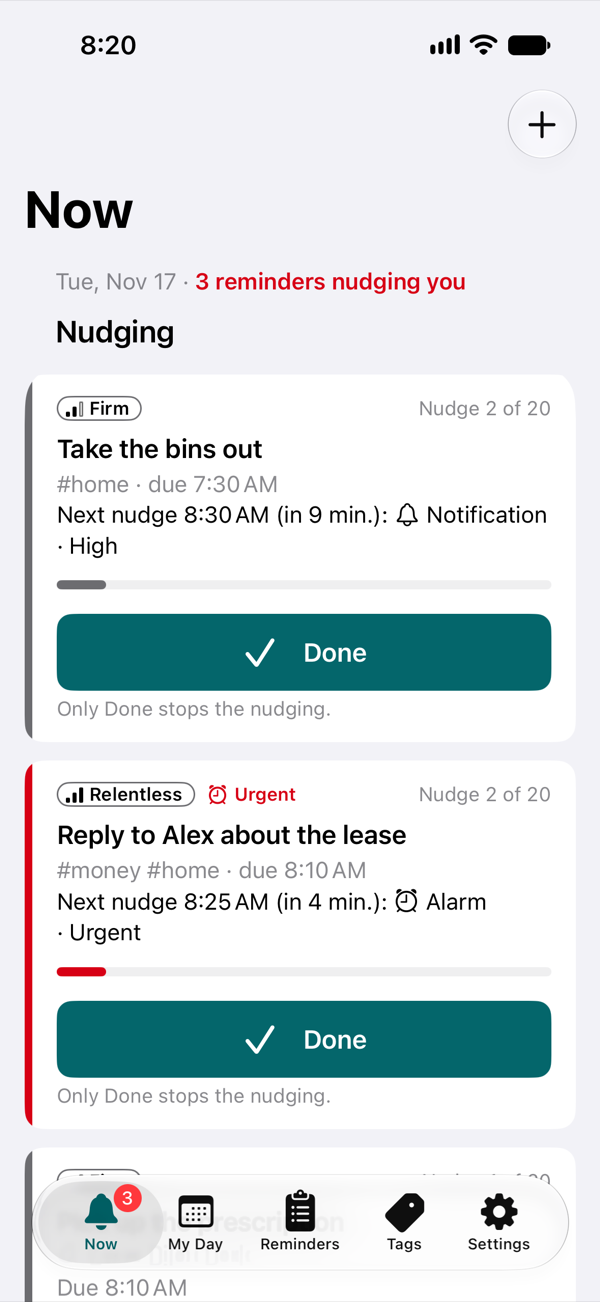
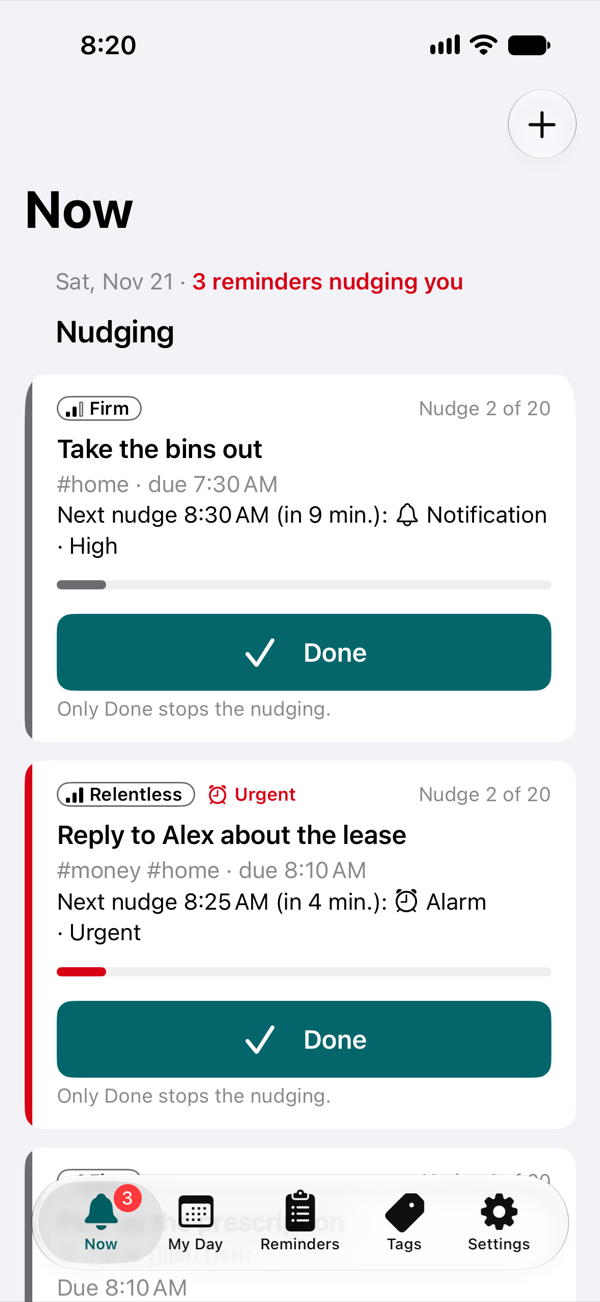
Publish 1.5.0 site: tutorials on the support page, new shots, slide 5 alt text

Changed region(s): [[0.33, 0.1843, 0.78, 0.2458], [0.09, 0.2151, 0.24, 0.2458]]

diff --git a/nudge-inator/support/index.html b/nudge-inator/support/index.html
@@ -22,7 +22,7 @@
 <main>
   <h1>Support</h1>
   <p class="lede">Something not nudging the way you expect? Write in. There's no account to sign in to, so email is all you need.</p>
-  <p class="updated">Last updated October 25, 2026</p>
+  <p class="updated">Last updated November 21, 2026</p>
 
   <section class="contact" aria-labelledby="contact-heading">
     <h2 id="contact-heading">Contact support</h2>
@@ -35,6 +35,74 @@
       <li>What you expected to happen, and what happened</li>
     </ul>
   </section>
+
+  <h2 id="tutorials-heading">Tutorials</h2>
+  <p>The same guides are in the app, under Settings › Tutorials. Each one is a few pages you swipe through.</p>
+  <div class="faq" role="region" aria-labelledby="tutorials-heading">
+    <details id="how-it-nudges">
+      <summary>How It Nudges</summary>
+      <h3>What to Expect</h3>
+      <p>Reminders keep coming back until you tap Done, at a steady pace or more often and more insistently.</p>
+      <p>When it really matters, your iPhone rings and vibrates like an alarm, even on silent and in a Focus. Stopping the alarm only quiets it: the next nudge still comes, and only Done ends the reminder. Choose the sound alarms ring with in Settings, under Default Alarm Sound, and for each reminder, under Sound on its form.</p>
+      <p>Each Gentle or Firm reminder has a Break Through Focus switch. Turn it off and a Focus can hold its nudges, and nothing rings. Relentless always breaks through.</p>
+      <p>Your own reminders stay on your iPhone. Reminders you send or receive through an approved share go through your iCloud. There's no account and no server of ours involved.</p>
+      <p><img src="../shots/tutorial-how-it-nudges-1.png" width="300" height="651" style="height:auto" loading="lazy" alt="How It Nudges, What to Expect: a Nudge pill with an arrow to Done, over the points Nudges until you're done, Urgent nudges ring as alarms and You choose what breaks through."></p>
+      <h3>Gentle</h3>
+      <p>Never rings as an alarm. At the Consistent pace, a nudge every 10 minutes: nudges 1 to 4 are Normal notifications, and nudges 5 to 20 are High. Twenty nudges over 3 hours and 20 minutes, then it gives up. During a Focus, Normal nudges wait until High, unless you allow Nudge-inator in that Focus.</p>
+      <p><img src="../shots/tutorial-how-it-nudges-2.png" width="300" height="651" style="height:auto" loading="lazy" alt="How It Nudges, Gentle: never rings as an alarm. Nudges 1 to 4 are Normal notifications and nudges 5 to 20 High notifications, every 10 minutes."></p>
+      <h3>Firm</h3>
+      <p>Rings as an alarm from nudge 4, with Break Through Focus on. At the Consistent pace: nudges 1 and 2 are Normal notifications, nudge 3 is a High notification, and nudges 4 to 20 are Urgent and ring as alarms.</p>
+      <p><img src="../shots/tutorial-how-it-nudges-3.png" width="300" height="651" style="height:auto" loading="lazy" alt="How It Nudges, Firm: rings as an alarm from nudge 4. Nudges 1 and 2 are Normal notifications, nudge 3 a High notification, and nudges 4 to 20 Urgent alarms, every 10 minutes."></p>
+      <h3>Relentless</h3>
+      <p>Every nudge rings as an alarm: all 20, every 10 minutes at the Consistent pace.</p>
+      <p><img src="../shots/tutorial-how-it-nudges-4.png" width="300" height="651" style="height:auto" loading="lazy" alt="How It Nudges, Relentless: every nudge rings as an alarm. Nudges 1 to 20 are Urgent alarms, every 10 minutes."></p>
+      <p>In the app, these schedules follow your own Default Pace, set in Settings.</p>
+    </details>
+    <details id="how-alarm-sounds-work">
+      <summary>How Alarm Sounds Work</summary>
+      <h3>Pick Your Default Sound</h3>
+      <p>In Settings, under Default Alarm Sound, choose the sound your alarms ring with. Tap a tone to hear it: choose from six tones, from the gentle Chime to the insistent Siren. Default Alarm is iOS's own sound, which apps can't play, so you'll hear it when an alarm rings.</p>
+      <p>New reminders start with it, and so do reminders someone sends you. The reminders you already have keep their sounds.</p>
+      <p><img src="../shots/tutorial-how-alarm-sounds-work-1.png" width="300" height="651" style="height:auto" loading="lazy" alt="How Alarm Sounds Work, Pick Your Default Sound: a Default Alarm Sound pill, over Tap a tone to hear it and New reminders start with it."></p>
+      <h3>Change Your Reminders</h3>
+      <p>Change the sound of reminders you already have, all at once or one at a time.</p>
+      <ul>
+        <li><strong>Use for All Reminders</strong>, in Settings › Default Alarm Sound, gives every reminder you have the default, including ones people sent you.</li>
+        <li><strong>Sound on the form:</strong> edit a reminder and change its Sound, under Break Through Focus, even while it's nudging.</li>
+        <li><strong>Named on its details:</strong> a reminder's details name its sound, under Break Through Focus.</li>
+      </ul>
+      <p>A reminder someone sends you rings with the sound chosen on your iPhone.</p>
+      <p><img src="../shots/tutorial-how-alarm-sounds-work-2.png" width="300" height="651" style="height:auto" loading="lazy" alt="How Alarm Sounds Work, Change Your Reminders: a Wake Up reminder with an arrow to the Chime tone, over Use for All Reminders, Sound on the form and Named on its details."></p>
+      <h3>When It Plays</h3>
+      <p>Your sound plays only when a nudge rings as an alarm: a Firm reminder's Urgent nudges with Break Through Focus on, and every Relentless nudge. A Gentle reminder, or a Firm one with Break Through Focus off, never rings, so it has no Sound row. Notifications use the standard sound, and so does every nudge while Alarms are off in iOS Settings.</p>
+      <p><img src="../shots/tutorial-how-alarm-sounds-work-3.png" width="300" height="651" style="height:auto" loading="lazy" alt="How Alarm Sounds Work, When It Plays: an Alarm pill, over Only alarms play it, Some reminders never ring and Other nudges sound standard."></p>
+    </details>
+    <details id="how-sharing-works">
+      <summary>How Sharing Works</summary>
+      <h3>Send Each Other Reminders</h3>
+      <p>Connect with someone you trust, and the reminders you send them nudge on their iPhone like their own. Sharing goes through iCloud, so each of you signs in to iCloud on your iPhone. You're connected only after one of you accepts the other's invite. Until then, nobody can send you a reminder.</p>
+      <p><img src="../shots/tutorial-how-sharing-works-1.png" width="300" height="651" style="height:auto" loading="lazy" alt="How Sharing Works, Send Each Other Reminders: You with an arrow to Maya Torres, over You both need iCloud and Only people you agree to."></p>
+      <h3>Connect</h3>
+      <ol>
+        <li><strong>Invite Someone:</strong> Settings › Connections. Enter the email address or phone number of their Apple Account.</li>
+        <li><strong>Send the Invite</strong> through Messages, Mail or Copy Link. Nothing is sent until you tap Send.</li>
+        <li><strong>They Accept:</strong> they open the invite on their iPhone, and you're both connected.</li>
+      </ol>
+      <p>An invite opens only for the Apple Account it was sent to, and you both need the latest Nudge-inator.</p>
+      <p><img src="../shots/tutorial-how-sharing-works-2.png" width="300" height="651" style="height:auto" loading="lazy" alt="How Sharing Works, Connect: Invite with an arrow to Connected, over the steps Invite Someone, Send the Invite and They Accept."></p>
+      <h3>Send a Reminder</h3>
+      <p>Pick Send To when you make a reminder, and choose who gets it. It nudges them at the strength you chose. It appears among their reminders, labeled From and your name, and they can mark it Done, pause it, remove it and tag it. Each person chooses, for each connection, whether reminders start right away or wait for them to accept first.</p>
+      <p><img src="../shots/tutorial-how-sharing-works-3.png" width="300" height="651" style="height:auto" loading="lazy" alt="How Sharing Works, Send a Reminder: a From Maya Torres pill, over It shows your name and Their Delivery Mode."></p>
+      <h3>Who Sees What</h3>
+      <ul>
+        <li><strong>You own what you send:</strong> only you can change what it says or when it's due. They can't edit it.</li>
+        <li><strong>Status is their choice:</strong> with Status Sharing on, you see whether it's Done, Paused, Missed or Removed. With it off, you see only that it was Delivered.</li>
+        <li><strong>Disconnect any time</strong> in Settings › Connections. They choose to keep or remove the reminders you sent.</li>
+        <li><strong>Share Activity:</strong> Settings › Share Activity shows what happened to sharing that you'd otherwise never see.</li>
+      </ul>
+      <p><img src="../shots/tutorial-how-sharing-works-4.png" width="300" height="651" style="height:auto" loading="lazy" alt="How Sharing Works, Who Sees What: Yours and Status pills, over You own what you send, Status is their choice, Disconnect any time and Share Activity."></p>
+    </details>
+  </div>
 
   <h2 id="faq-heading">Common questions</h2>
   <div class="faq" role="region" aria-labelledby="faq-heading">
@@ -58,7 +126,7 @@
   </div>
 
   <h2>Your privacy</h2>
-  <p>Nudge-inator has no account and no server, and your reminders stay on your iPhone. Read the <a href="../privacy/index.html">Nudge-inator privacy policy</a> for the details.</p>
+  <p>Nudge-inator has no account and no server of ours. Your own reminders stay on your iPhone, and reminders you send or receive through an approved share go through your iCloud. Read the <a href="../privacy/index.html">Nudge-inator privacy policy</a> for the details.</p>
 </main>
 
 <footer class="site-footer">

diff --git a/nudge-inator/index.html b/nudge-inator/index.html
@@ -31,7 +31,7 @@
     <div class="slide" aria-roledescription="slide" aria-label="2 of 7"><img src="shots/carousel-2-now.png" alt="The Now tab: three reminders nudging, each with its strength, nudge count, next nudge and a Done button. The third was sent by Riley Park." draggable="false"></div>
     <div class="slide" aria-roledescription="slide" aria-label="3 of 7"><img src="shots/carousel-3-my-day.png" alt="My Day: counts of Done, Nudging, Missed and Left, then each reminder with its time and what happened." draggable="false"></div>
     <div class="slide" aria-roledescription="slide" aria-label="4 of 7"><img src="shots/carousel-4-sent.png" alt="The Reminders tab's Sent view: search, filter and sort above two reminders sent to Riley Park, each with its time, title and a Delivered status." draggable="false"></div>
-    <div class="slide" aria-roledescription="slide" aria-label="5 of 7"><img src="shots/carousel-5-new-reminder.png" alt="The New Reminder form: Pick up the kids from practice, with Tags and Send To rows, starting at 9:00 PM and Relentless chosen." draggable="false"></div>
+    <div class="slide" aria-roledescription="slide" aria-label="5 of 7"><img src="shots/carousel-5-new-reminder.png" alt="The New Reminder form: Pick up the kids from practice, with Tags and Send To rows, starting today at 8:00 AM and Relentless chosen." draggable="false"></div>
     <div class="slide" aria-roledescription="slide" aria-label="6 of 7"><img src="shots/carousel-6-send-to.png" alt="The Send To page: Riley Park checked, and an Invite Someone New row below, with a note that each person gets their own copy at this strength." draggable="false"></div>
     <div class="slide" aria-roledescription="slide" aria-label="7 of 7"><img src="shots/carousel-7-tags.png" alt="The Tags tab: search, filter and sort above a list of tags, each with how many reminders it holds and how many are due today." draggable="false"></div>
   </div>
